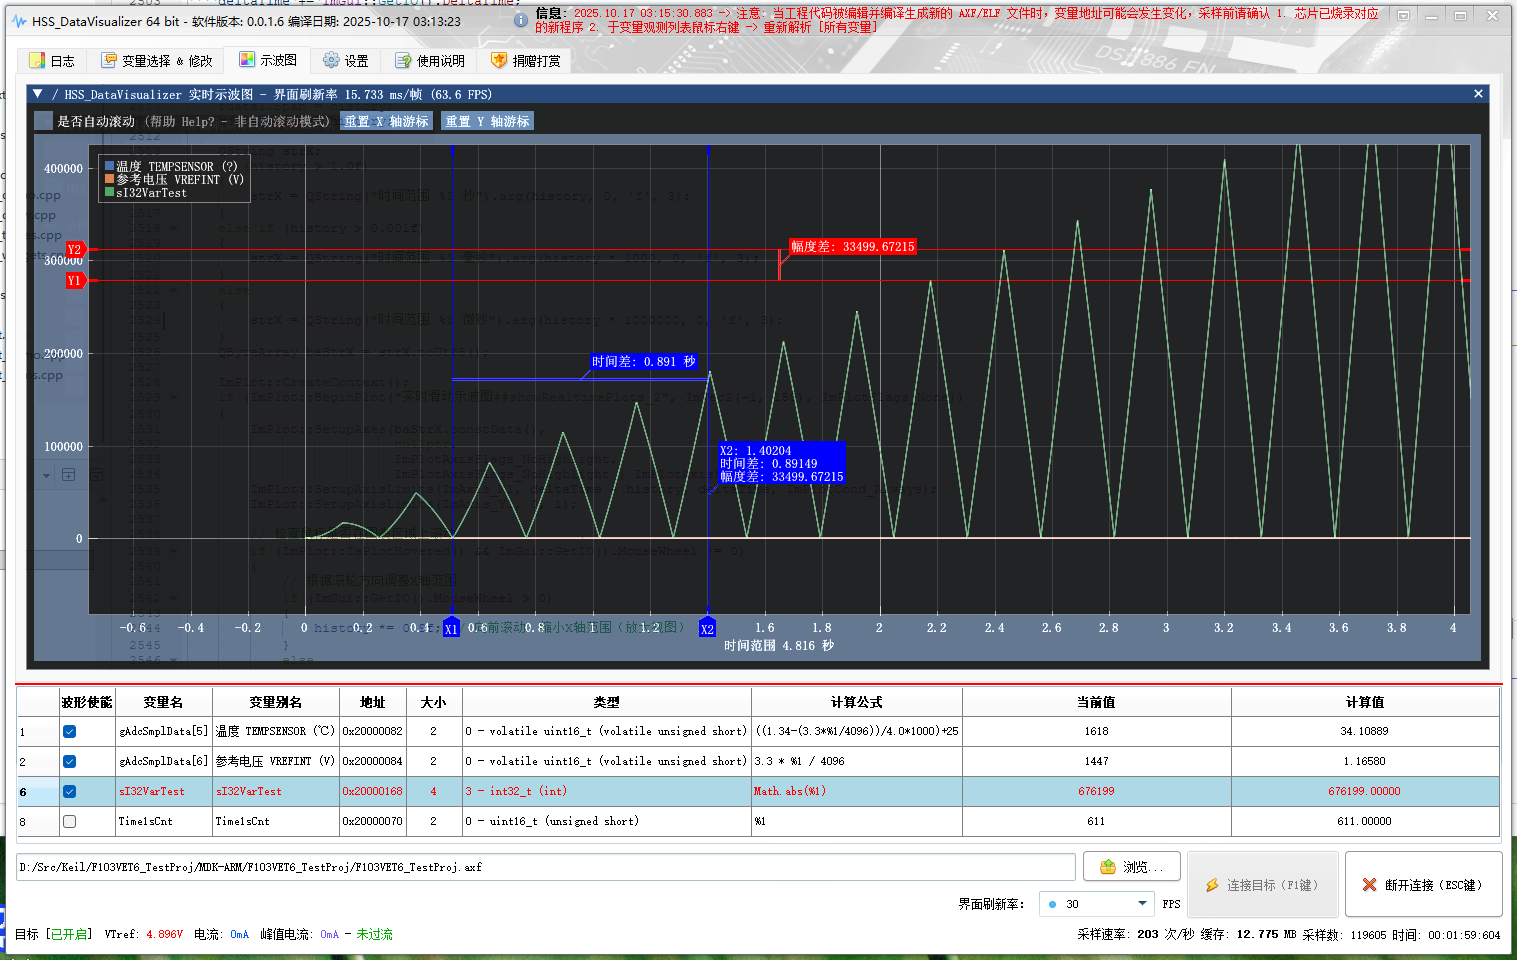
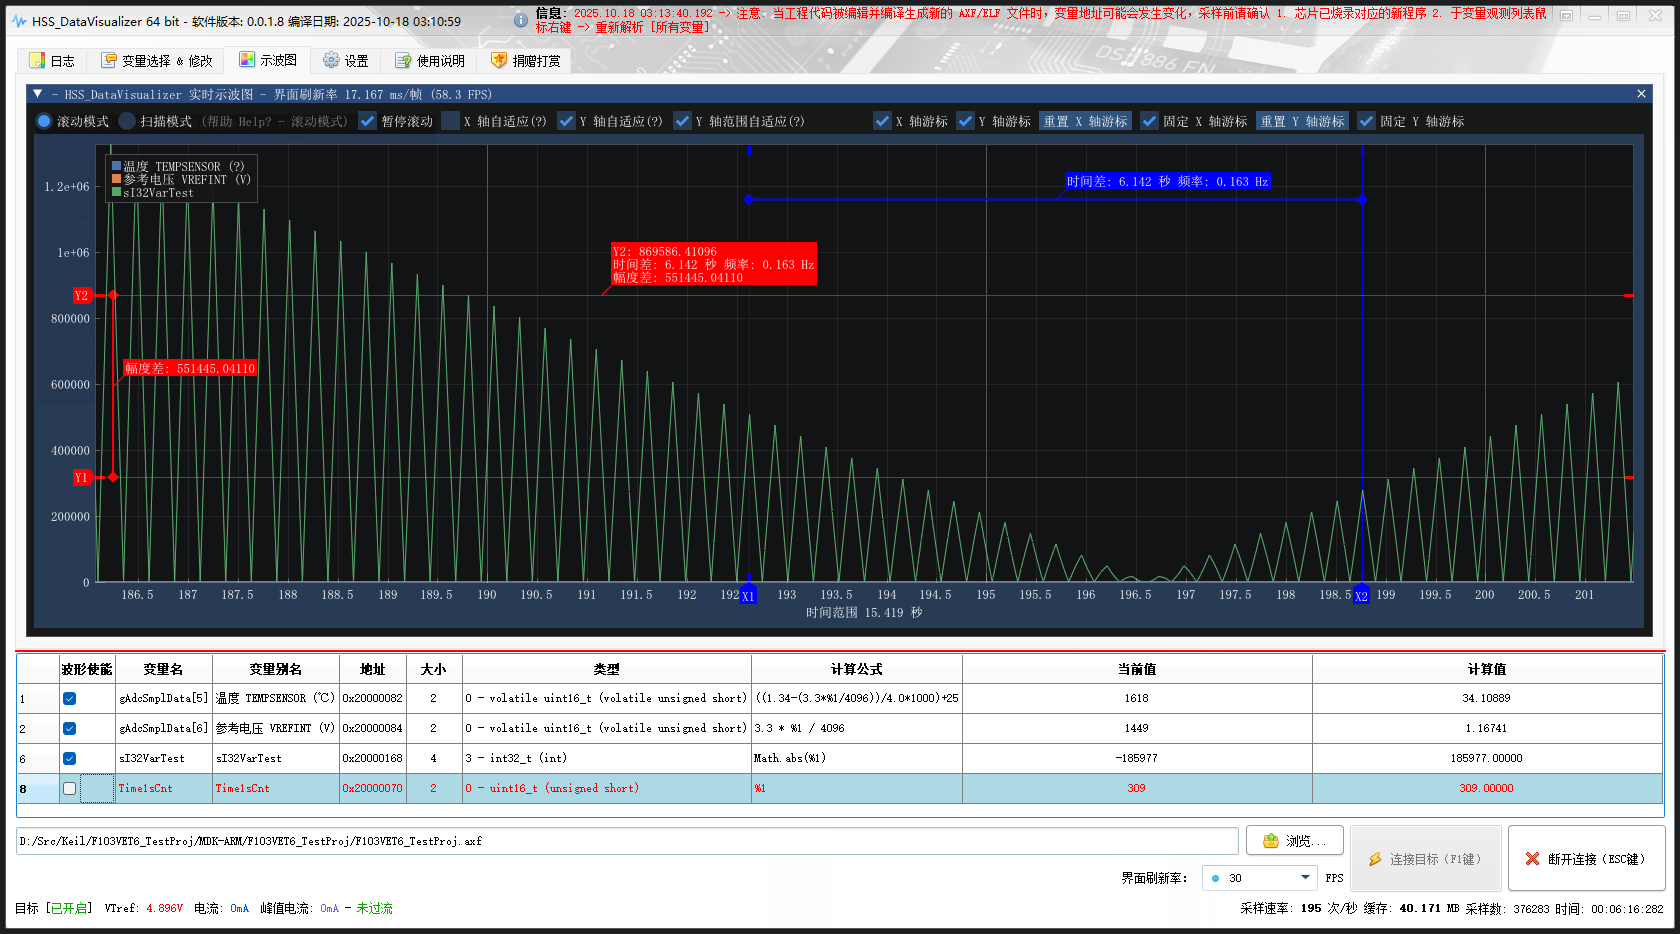
docs: 更新README和程序截图
更新README文档内容，添加工具功能详细说明并更新版本号至v0.0.1.8。同时更新程序截图文件。

diff --git a/README.md b/README.md
@@ -2,11 +2,18 @@
 
 ## :book: 简介
 
-本仓库用于 HSS Data Visualizer 的发布，下载请跳转 [发布页面 (当前版本: v0.0.1.7)](https://github.com/DigitalAllianceStudio/HSS_DataVisualizer/releases)
+本仓库用于 HSS Data Visualizer 的发布，下载请跳转 [发布页面 (当前版本: v0.0.1.8)](https://github.com/DigitalAllianceStudio/HSS_DataVisualizer/releases)
 
-本程序通过 SEGGER High-Speed-Sampling (HSS) 方式，对 MCU 上的 RAM、Flash、寄存器进行非侵入式的后台高速访问，并实时可视化显示到用户界面，其原理类似于 J-Scope、STM Studio、STM32CubeMonitor。
+本程序通过 SEGGER High-Speed-Sampling (HSS) 方式，对 MCU RAM 中的全局变量进行非侵入式的后台高速访问，并实时将波形和数据可视化到用户界面，其原理类似于 J-Scope、STM Studio、STM32CubeMonitor。
 
-在 J-Scope 的基础上，除了高速采样，额外增加了变量修改功能。
+### 本工具是JScope的平替，相比JScope，本工具支持和新增的功能
+
+1. 变量别名设定
+2. 变量`公式计算`实时显示（支持 Javascript Math 表达式、移位等操作）
+3. 更便利的变量地址重新解析功能
+4. 新增观测的同时`修改变量的功能`
+5. 更棒的变量增删改查、采样使能、波形使能体验
+6. 更便利和高清的示波图操作（支持滚动、缩放、平移、游标测量、扫描模式、滚动模式等功能）
 
 <div align="center">
 
